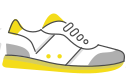
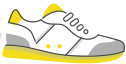
pagina venda ml

diff --git a/Sites/Copia site ML/anunciar.html b/Sites/Copia site ML/anunciar.html
@@ -27,20 +27,29 @@
             </div>
         </div>
     </header>
-    <!--title-->
-    <div class="box-background">
-        <h2>Olá! Antes de mais nada,<br>
-            o que você vai anunciar?</h2>
-    </div>
-    <!--articles-->
+
+
+
     <div class="row">
+        <!--title-->
+        <div class="box-background">
+            <h2>Olá! Antes de mais nada,<br>
+                o que você vai anunciar?</h2>
+        </div>
+        <!--articles-->
         <section class="artigos">
             <article class="art-item">
-                <img src="img/shoe-v2.png" alt="">
+                <img src="img/shoe-v2.png" alt="" width="80" height="39" style="margin-top: 60px;">
             </article>
-            <article class="art-item"></article>
-            <article class="art-item"></article>
-            <article class="art-item"></article>
+            <article class="art-item">
+                <img src="img/motors_image.png" alt="" width="70" height="50" style="margin-top: 50px;">
+            </article>
+            <article class="art-item">
+                <img src="img/hotel.png" alt="" style="margin-top: 33px;">
+            </article>
+            <article class="art-item">
+                <img src="img/pincel.png" alt="" style="margin-top: 50px;">
+            </article>
 
         </section>
     </div>

diff --git a/Sites/Copia site ML/main.css b/Sites/Copia site ML/main.css
@@ -26,7 +26,7 @@
   line-height: 50px;
 }
 section.artigos{
-  width: 750px;
+  width: 100%;
   margin: auto;
   background-color: ;
   height: auto;
@@ -36,7 +36,7 @@ section.artigos{
   margin-top: -60px
 }
 .art-item{
-  width: 24%;
+  width: 174px;
   height: 174px;
   background-color: #FFFFFF;
   margin: 10px;  
@@ -51,8 +51,4 @@ section.artigos{
 article{
   text-align: center;  
 }
-article img{
-  background-color: orange;
-  width: 86px;  
-  margin-top: 60px;
-}
+
